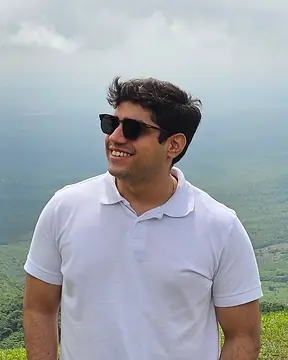
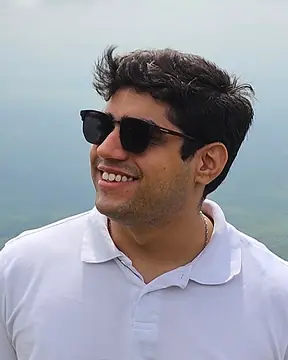
feat(ui): chest-up crops for both photos (S1 criterion 4, S4 criterion 10)
The user asked for both photos from the chest up. The portrait is now
320px (16 KB) plus a native 420px version, and About me 288px (8 KB)
plus 448px, still without any metadata.

diff --git a/site/index.html b/site/index.html
@@ -98,7 +98,7 @@
     <section class="hero" id="top" aria-labelledby="hero-title">
       <div class="container hero__grid">
         <figure class="hero__photo">
-          <img src="/img/photos/portrait-320.webp" srcset="/img/photos/portrait-320.webp 320w, /img/photos/portrait-500.webp 500w" sizes="(max-width: 860px) 16rem, 20rem" width="320" height="400" fetchpriority="high" alt="Joshuel smiling, sitting on a bench on a wooden deck among the trees">
+          <img src="/img/photos/portrait-320.webp" srcset="/img/photos/portrait-320.webp 320w, /img/photos/portrait-420.webp 420w" sizes="(max-width: 860px) 16rem, 20rem" width="320" height="400" fetchpriority="high" alt="Joshuel smiling, sitting on a bench on a wooden deck among the trees">
         </figure>
         <div class="hero__copy">
           <span class="status">open to remote roles with international teams</span>
@@ -274,7 +274,7 @@
           <!-- TODO(sobre): fatos pessoais do usuário (o que gosta de fazer etc.), até ~90 palavras no total. -->
         </div>
         <figure class="about__photo reveal">
-          <img src="/img/photos/about-288.webp" srcset="/img/photos/about-288.webp 288w, /img/photos/about-576.webp 576w" sizes="(max-width: 760px) 16rem, 18rem" width="288" height="360" loading="lazy" alt="Joshuel in sunglasses at a hilltop lookout over a green valley">
+          <img src="/img/photos/about-288.webp" srcset="/img/photos/about-288.webp 288w, /img/photos/about-448.webp 448w" sizes="(max-width: 760px) 16rem, 18rem" width="288" height="360" loading="lazy" alt="Joshuel in sunglasses at a hilltop lookout over a green valley">
         </figure>
       </div>
     </section>
